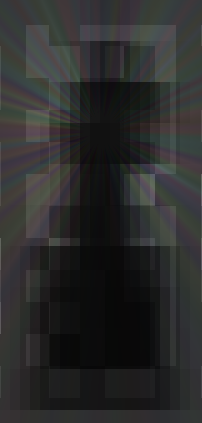
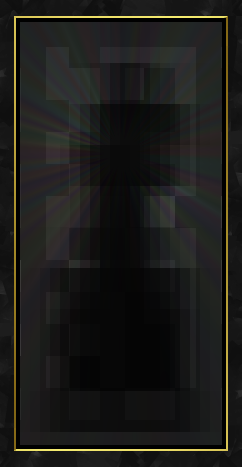
Add new button resources.Add dealbh frame.

diff --git a/manifesto/src/bundle.js b/manifesto/src/bundle.js
@@ -64,18 +64,7 @@ $(document).ready(function(){
     });
 });
 
-//naGeaga
 
-
-    $('#deirGeaga1').hover(function(){
-    $('#bearla').text('Player 1');
-    $(this).css('color','#e35ee5');
-    }
-);
-    $('#deirGeaga1').mouseout(function(){
-        $('#bearla').text('');
-        $(this).css('color','#730a0a');
-    });
    });
 
 
@@ -173,7 +162,7 @@ render();
    
 
     function mousedownHandler(){
-        fwdBtn.style.background = "-webkit-linear-gradient(top, rgba(0,0,0,0.2), rgba(255,255,255,0.3))";
+        fwdBtn.style.backgroundImage ='src("../images/btnBg3.png")';
         fwdBtn.style.background = "-moz-linear-gradient(top, rgba(0,0,0,0.2), rgba(255,255,255,0.3))";
         fwdBtn.style.background = "linear-gradient(top, rgba(0,0,0,0.2), rgba(255,255,255,0.3))";
     }
@@ -269,7 +258,12 @@ if(story===1){
      },3500);
 
 
-} 
+}
+if(story===2){
+    output2.style.top="-399px";
+    output2.style.left="400px;";
+
+}
     if(story===4){
         //update button styles if player is coming back from events on story 5 
         fwdBtn.style.left='-42px';
@@ -342,7 +336,7 @@ module.exports = [
 
 <div style="animation:delay-fade-in 1s;">
 <li>
-<span id='One cannot'>Ní feidir</span><span id='give an objective account'> tuairisc oibiachtúil a thabhairt</span><span id='on the intimacy between'> ar an caidreamh idir</span><span id='language'> teanga</span><span id='and mind'> agus meabhair</span>
+<span id='One cannot'>Ní feidir</span><span id='give a neutral account'> tuairisc neodrach a thabhairt</span><span id='of the connection between'> ar an caidreamh idir</span><span id='language'> teanga</span><span id='and mind'> agus meabhair</span>
 </li>
 </div>
 <br>
@@ -351,7 +345,7 @@ module.exports = [
 <li>
 
 <span id='A lack of space'>Easpa spás,</span> <span id='rather than'> seachas </span><span id='a lack'>easpa</span> <span id='of interest'> spéis</span> <span id='or ability'>ná cumas</span>, 
-<span id='is'>is</span> <span id='the cause'>cúis</span><span id='of our'> len ár</span> <span id='language question'>dúcheist teanga</span>
+<span id='is'>is</span> <span id='the cause'>cúis</span><span id='of our'> len ár</span> <span id='language problem'>dúcheist teanga</span>
 </li>
 
 </div>
@@ -361,7 +355,7 @@ module.exports = [
 <li>
     
 
-<span id='A virtual community can'>Is feidir le spás fiorúl coiteannta</span><span id='suddenly improve'> luas tobann a chuir faoi</span><span id='mental fluency'> líofacht intinneach </span><span id='Gaelic'>don tae ag a bhfuil cú-foo eigin aicí/ge </span>
+<span id='A shared virtual space could'>D'feidach spás fiorúl coiteannta</span><span id='improve'> feabhsú </span><span id='internal fluency'> líofacht intinneach </span><span id='among a community'>i measc pobal</span><span id='separated'> scartha </span><span id='from Gaelic ways'> ón Gaelachas</span>
 </li>
 
 </div>

diff --git a/manifesto/src/story-texts.js b/manifesto/src/story-texts.js
@@ -45,7 +45,7 @@ module.exports = [
 
 <div style="animation:delay-fade-in 1s;">
 <li>
-<span id='One cannot'>Ní feidir</span><span id='give an objective account'> tuairisc oibiachtúil a thabhairt</span><span id='on the intimacy between'> ar an caidreamh idir</span><span id='language'> teanga</span><span id='and mind'> agus meabhair</span>
+<span id='One cannot'>Ní feidir</span><span id='give a neutral account'> tuairisc neodrach a thabhairt</span><span id='of the connection between'> ar an caidreamh idir</span><span id='language'> teanga</span><span id='and mind'> agus meabhair</span>
 </li>
 </div>
 <br>
@@ -54,7 +54,7 @@ module.exports = [
 <li>
 
 <span id='A lack of space'>Easpa spás,</span> <span id='rather than'> seachas </span><span id='a lack'>easpa</span> <span id='of interest'> spéis</span> <span id='or ability'>ná cumas</span>, 
-<span id='is'>is</span> <span id='the cause'>cúis</span><span id='of our'> len ár</span> <span id='language question'>dúcheist teanga</span>
+<span id='is'>is</span> <span id='the cause'>cúis</span><span id='of our'> len ár</span> <span id='language problem'>dúcheist teanga</span>
 </li>
 
 </div>
@@ -64,7 +64,7 @@ module.exports = [
 <li>
     
 
-<span id='A virtual community can'>Is feidir le spás fiorúl coiteannta</span><span id='suddenly improve'> luas tobann a chuir faoi</span><span id='mental fluency'> líofacht intinneach </span><span id='Gaelic'>don tae ag a bhfuil cú-foo eigin aicí/ge </span>
+<span id='A shared virtual space could'>D'feidach spás fiorúl coiteannta</span><span id='improve'> feabhsú </span><span id='internal fluency'> líofacht intinneach </span><span id='among a community'>i measc pobal</span><span id='separated'> scartha </span><span id='from Gaelic ways'> ón Gaelachas</span>
 </li>
 
 </div>

diff --git a/manifesto/src/manifesto.css b/manifesto/src/manifesto.css
@@ -28,16 +28,32 @@ html {
 }
 /************/
 
+#mapFrame {
 
+    position:absolute;
+    display: inline;
+    background-image:url('../images/mapFrame.png');
+    top:32px;
+    left:319px;
+    height: 544px;
+    width:862px;
+    z-index:200;
+    padding-top:0px;
+    padding-left:0px;
+    margin-top:0px;
+    margin-right:0px;
+    background-repeat:no-repeat;
+}
 
 #left-panel{
     margin:20px;
-    width:202px;
-    height: 423px;
+    width:242px;
+    height: 467px;
     position: relative;
     background-image: url("../images/bg2.png");
     background-repeat: no-repeat;
-    border: 5px solid gray;
+    top:43px;
+    left:0px;
 }
 
 #middle-panel{
@@ -80,15 +96,16 @@ h1
 
 
 #output{
- top: -39px;
+ top: -536px;
  height:0px;
  line-height:0px;
  position:relative;
  text-align:center;
- 
+ left: -135px;
  color:#730a0a;
  margin-left: 0px auto;
  font-size: 85px;
+ z-index:300;
 }
 #output2
 {
@@ -98,7 +115,7 @@ font-family: INFO56_0;
 margin:0px auto;
 margin-top: 0px;
 font-size:39px;
-
+left:0px;
 }
 
 img
@@ -111,14 +128,11 @@ img
 
 button
 {
-  background-color: #505050;
-  height: 70px;
-  width: 120px;
+  height: 118px;
+  width: 118px;
   
-  font-family: computer_pixel-7;
   font-size: 50px;
-  color: #fff;
-
+ background-image:url('../images/btnBg1.png');
   -webkit-user-select: none;
   -moz-user-select: none;
   user-select: none;
@@ -131,7 +145,7 @@ button
     left:-42px;
     top:375px;
     animation: delay-fade-in 3s;
-    }
+   }
 
 
 #bckBtn{
@@ -161,8 +175,8 @@ z-index:20;
     width:257px;
     height:420px;
     background-image:url("../images/dealbh.png");
-    bottom:6px;
-    left:-71px;
+    bottom:27px;
+    left:-52px;
     z-index:10;
 }
 

diff --git a/manifesto/src/manifesto.js b/manifesto/src/manifesto.js
@@ -91,7 +91,7 @@ render();
    
 
     function mousedownHandler(){
-        fwdBtn.style.background = "-webkit-linear-gradient(top, rgba(0,0,0,0.2), rgba(255,255,255,0.3))";
+        fwdBtn.style.backgroundImage ='src("../images/btnBg3.png")';
         fwdBtn.style.background = "-moz-linear-gradient(top, rgba(0,0,0,0.2), rgba(255,255,255,0.3))";
         fwdBtn.style.background = "linear-gradient(top, rgba(0,0,0,0.2), rgba(255,255,255,0.3))";
     }
@@ -187,7 +187,12 @@ if(story===1){
      },3500);
 
 
-} 
+}
+if(story===2){
+    output2.style.top="-399px";
+    output2.style.left="400px;";
+
+}
     if(story===4){
         //update button styles if player is coming back from events on story 5 
         fwdBtn.style.left='-42px';

diff --git a/manifesto/src/naGeaga/geaga.css b/manifesto/src/naGeaga/geaga.css
@@ -56,8 +56,8 @@ padding-left:100px;
     position:absolute;
     display:inline;
     background-image:url('../../images/mapFrame.png');
-    top:14px;
-    left:318px;
+    top:15px;
+    left:305px;
     height:544px;
     width:862px;
     z-index:200;
@@ -70,10 +70,7 @@ padding-left:100px;
 
 }   
 #geagaCanvas{
- border: 2px solid black;
-top:0;
-left:0;
-padding-top:30px;
+padding-top:36px;
 }
 span.withTitle {
     font-size: 30px;
@@ -223,7 +220,7 @@ z-index:2;
     height:420px;
     background-image:url("../../images/dealbh.png");
     bottom:-6px;
-    left:-69px;
+    left:-55px;
     z-index:10;
 }
 

diff --git a/manifesto/src/manifesto.html b/manifesto/src/manifesto.html
@@ -19,6 +19,7 @@
             <source src="../audio/hum1.mp3">
         </audio>
                 <div id="left-panel">
+                    <div id="deetsFrame"></div>
                     <div id="shield-holder">
                         <div class="item" id="dealbh"></div>
                             <div class="item" id="badge"</div>
@@ -31,6 +32,7 @@
 
 
 
+        </div>
 
                </div>
 
@@ -44,11 +46,10 @@
 
 
 
-        </div>
 
 
 
-
+        <div id="mapFrame"></div>
     </body>
     <script src="jqueries.js"></script>    
     <script src="bundle.js"></script>
